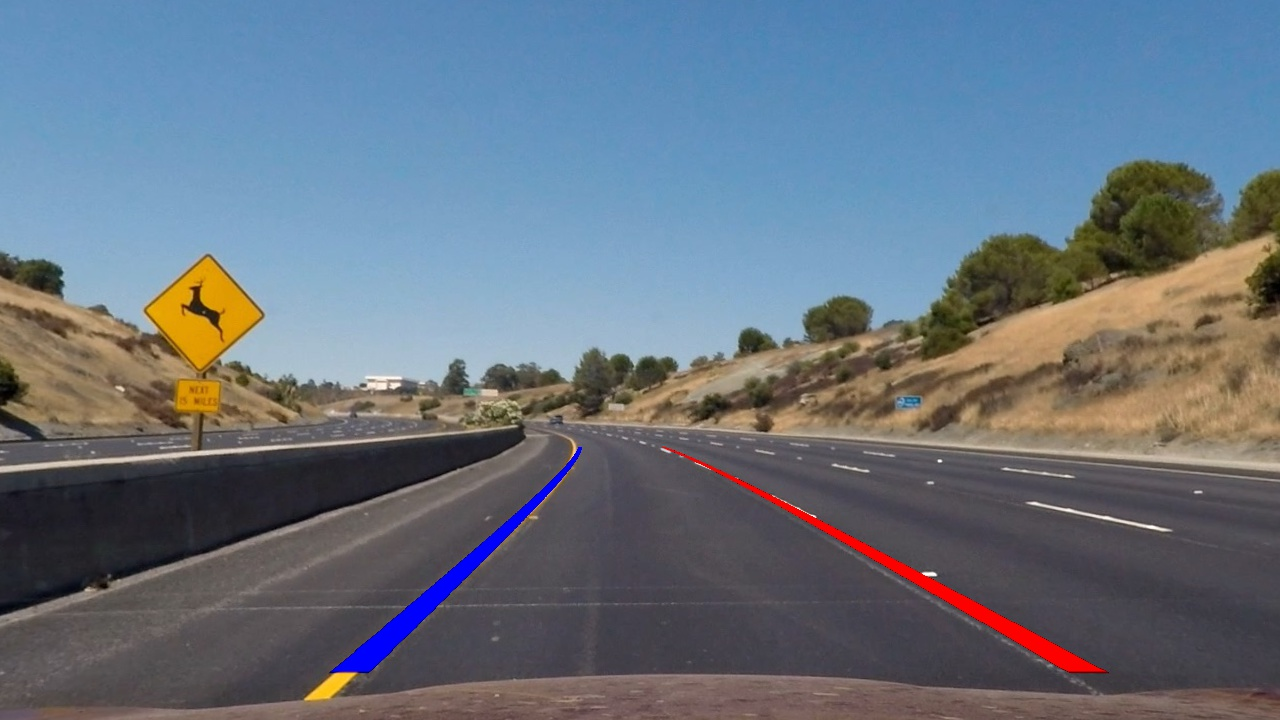
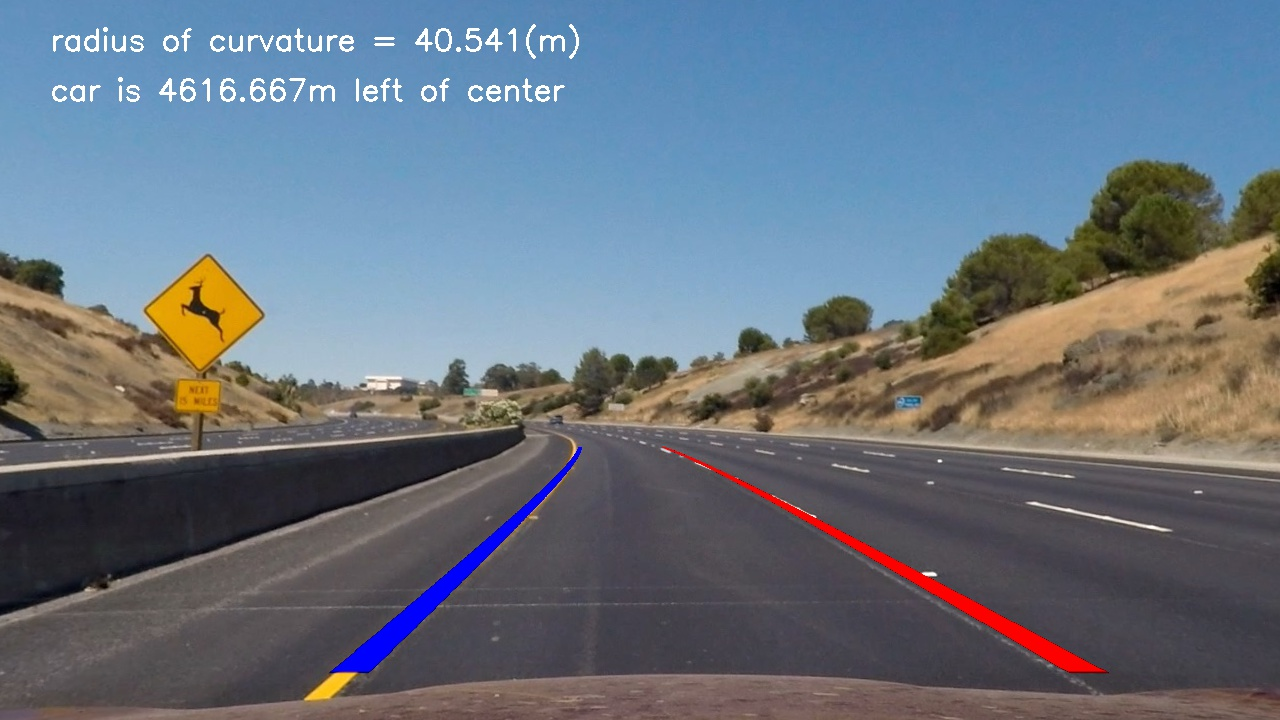
find radius

Changed region(s): [[0.0312, 0.0306, 0.4375, 0.1528], [0.3125, 0.0306, 0.4688, 0.0917]]

diff --git a/source/curvature.py b/source/curvature.py
@@ -2,9 +2,9 @@ import cv2
 import numpy
 
 
-def draw_curve(warped, image, window_height, window_width, left_x, right_x, m_inverse):
+def draw_curve(warped, image, left_x, right_x, m_inverse, curve_centers):
     y_values = range(0, warped.shape[0])
-    res_yvals = numpy.arange(warped.shape[0] - window_height / 2, 0, -window_height)
+    res_yvals = numpy.arange(warped.shape[0] - curve_centers.window_height / 2, 0, -curve_centers.window_height)
 
     left_fit = numpy.polyfit(res_yvals, left_x, 2)
     left_fit_x = left_fit[0] * y_values * y_values + left_fit[1] * y_values + left_fit[2]
@@ -14,12 +14,12 @@ def draw_curve(warped, image, window_height, window_width, left_x, right_x, m_in
     right_fit_x = right_fit[0] * y_values * y_values + right_fit[1] * y_values + right_fit[2]
     right_fit_x = numpy.array(right_fit_x, numpy.int32)
 
-    left_lane = numpy.array(list(
-        zip(numpy.concatenate((left_fit_x - window_width / 2, left_fit_x[::-1] + window_width / 2), axis=0),
-            numpy.concatenate((y_values, y_values[::-1]), axis=0))), numpy.int32)
-    right_lane = numpy.array(list(
-        zip(numpy.concatenate((right_fit_x - window_width / 2, right_fit_x[::-1] + window_width / 2), axis=0),
-            numpy.concatenate((y_values, y_values[::-1]), axis=0))), numpy.int32)
+    left_lane = numpy.array(list(zip(numpy.concatenate(
+        (left_fit_x - curve_centers.window_width / 2, left_fit_x[::-1] + curve_centers.window_width / 2), axis=0),
+        numpy.concatenate((y_values, y_values[::-1]), axis=0))), numpy.int32)
+    right_lane = numpy.array(list(zip(numpy.concatenate(
+        (right_fit_x - curve_centers.window_width / 2, right_fit_x[::-1] + curve_centers.window_width / 2), axis=0),
+        numpy.concatenate((y_values, y_values[::-1]), axis=0))), numpy.int32)
 
     road = numpy.zeros_like(image)
     road_background = numpy.zeros_like(image)
@@ -35,5 +35,20 @@ def draw_curve(warped, image, window_height, window_width, left_x, right_x, m_in
 
     base = cv2.addWeighted(image, 1, warped_road_background, -1, 0)
     weighted_road = cv2.addWeighted(base, 1, warped_road, 1, 0)
+
+    curve_fit_cr = numpy.polyfit(numpy.array(res_yvals, numpy.float32) * curve_centers.vertical_meters_per_pixel,
+                                 numpy.array(left_x, numpy.float32) * curve_centers.horizontal_meters_per_pixel, 2)
+    curve_radius = ((1 + (2 * curve_fit_cr[0] * y_values[-1] * curve_centers.vertical_meters_per_pixel + curve_fit_cr[
+        1]) ** 2) ** 1.5) / numpy.absolute(2 * curve_fit_cr[0])
+
+    camera_center = (left_fit_x[-1] + right_fit_x[-1]) / 2
+    center_diff = (camera_center * warped.shape[1] / 2) * curve_centers.horizontal_meters_per_pixel
+    side_pos = 'left'
+    if center_diff <= 0:
+        side_pos = 'right'
+    cv2.putText(weighted_road, 'radius of curvature = ' + str(round(curve_radius, 3)) + '(m)', (50, 50),
+                cv2.FONT_HERSHEY_SIMPLEX, 1, (255, 255, 255), 2)
+    cv2.putText(weighted_road, 'car is ' + str(abs(round(center_diff, 3))) + 'm ' + side_pos + ' of center', (50, 100),
+                cv2.FONT_HERSHEY_SIMPLEX, 1, (255, 255, 255), 2)
 
     return weighted_road

diff --git a/source/tracker.py b/source/tracker.py
@@ -3,11 +3,11 @@ import numpy
 
 
 class Tracker:
-    def __init__(self, box_width, box_height, margin, vertical_meters_per_pixel=1, horizontal_meters_per_pixel=1,
+    def __init__(self, window_width, window_height, margin, vertical_meters_per_pixel=1, horizontal_meters_per_pixel=1,
                  smooth_factor=15):
         self.recent_centers = []
-        self.box_width = box_width
-        self.box_height = box_height
+        self.window_width = window_width
+        self.window_height = window_height
         self.margin = margin
         self.vertical_meters_per_pixel = vertical_meters_per_pixel
         self.horizontal_meters_per_pixel = horizontal_meters_per_pixel
@@ -15,22 +15,22 @@ class Tracker:
 
     def find_window_centroids(self, warped):
         window_centroids = []
-        window = numpy.ones(self.box_width)
+        window = numpy.ones(self.window_width)
 
         l_sum = numpy.sum(warped[int(3 * warped.shape[0] / 4):, :int(warped.shape[1] / 2)], axis=0)
-        l_center = numpy.argmax(numpy.convolve(window, l_sum)) - self.box_width / 2
+        l_center = numpy.argmax(numpy.convolve(window, l_sum)) - self.window_width / 2
         r_sum = numpy.sum(warped[int(3 * warped.shape[0] / 4):, int(warped.shape[1] / 2):], axis=0)
-        r_center = numpy.argmax(numpy.convolve(window, r_sum)) - self.box_width / 2 + int(warped.shape[1] / 2)
+        r_center = numpy.argmax(numpy.convolve(window, r_sum)) - self.window_width / 2 + int(warped.shape[1] / 2)
 
         window_centroids.append((l_center, r_center))
 
-        for level in range(1, int(warped.shape[0] / self.box_height)):
-            vertical_slice = warped[int(warped.shape[0] - (level + 1) * self.box_height):int(
-                warped.shape[0] - level * self.box_height), :]
+        for level in range(1, int(warped.shape[0] / self.window_height)):
+            vertical_slice = warped[int(warped.shape[0] - (level + 1) * self.window_height):int(
+                warped.shape[0] - level * self.window_height), :]
             image_layer = numpy.sum(vertical_slice, axis=0)
             conv_signal = numpy.convolve(window, image_layer)
 
-            offset = self.box_width / 2
+            offset = self.window_width / 2
             l_min_index = int(max(l_center + offset - self.margin, 0))
             l_max_index = int(min(l_center + offset + self.margin, warped.shape[1]))
             l_center = numpy.argmax(conv_signal[l_min_index:l_max_index]) + l_min_index - offset

diff --git a/source/pipeline.py b/source/pipeline.py
@@ -21,10 +21,11 @@ for index, file in enumerate(files):
 
     window_width = 25
     window_height = 80
+
     curve_centers = Tracker(window_width, window_height, 25, 10 / 720, 4 / 384)
     window_centroids = curve_centers.find_window_centroids(warped)
     sliding_windows, left_x, right_x = draw_windows(warped, window_centroids, window_width, window_height)
-    weighted_road = draw_curve(warped, image, window_height, window_width, left_x, right_x, m_inverse)
+    weighted_road = draw_curve(warped, image, left_x, right_x, m_inverse, curve_centers)
 
     correction_result = str(index) + ' undistorted.jpg'
     cv2.imwrite('../output_images/' + correction_result, weighted_road)
